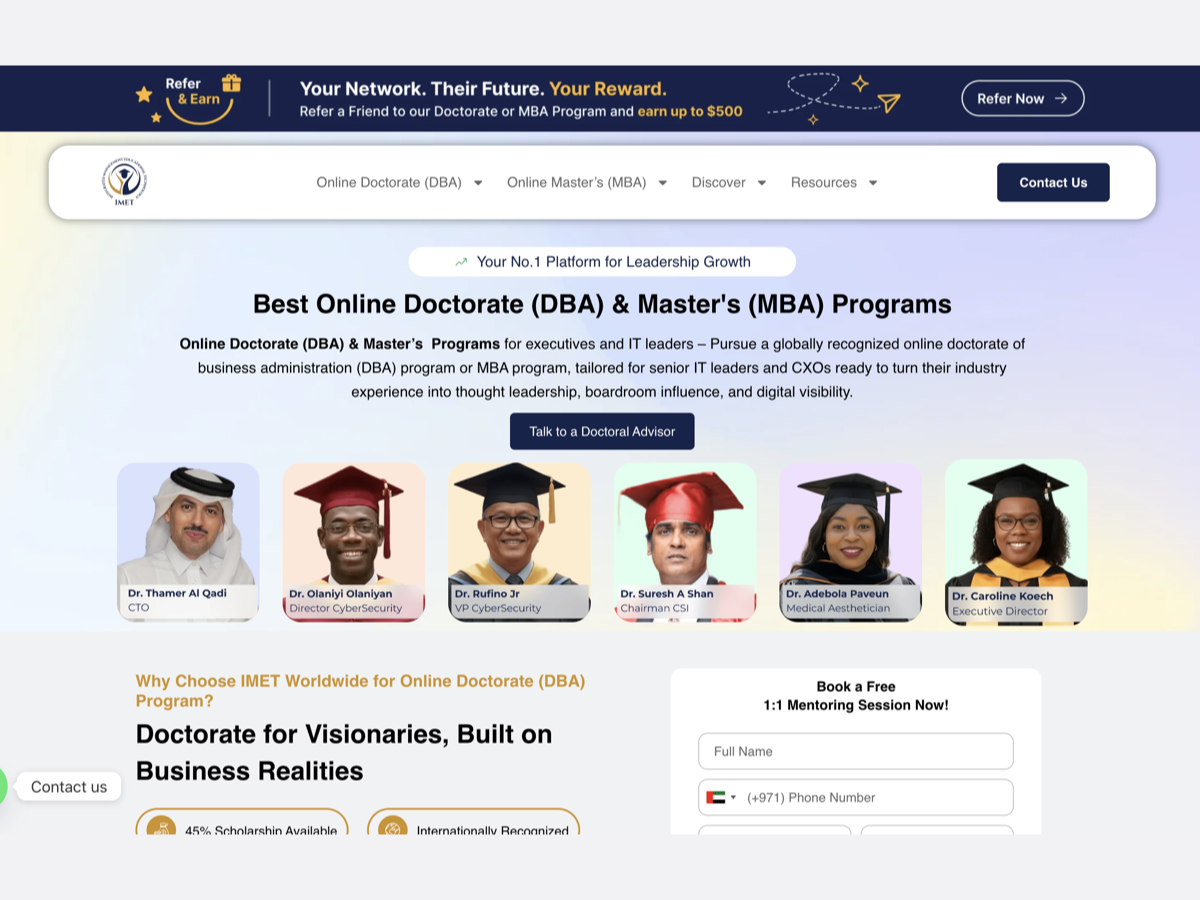
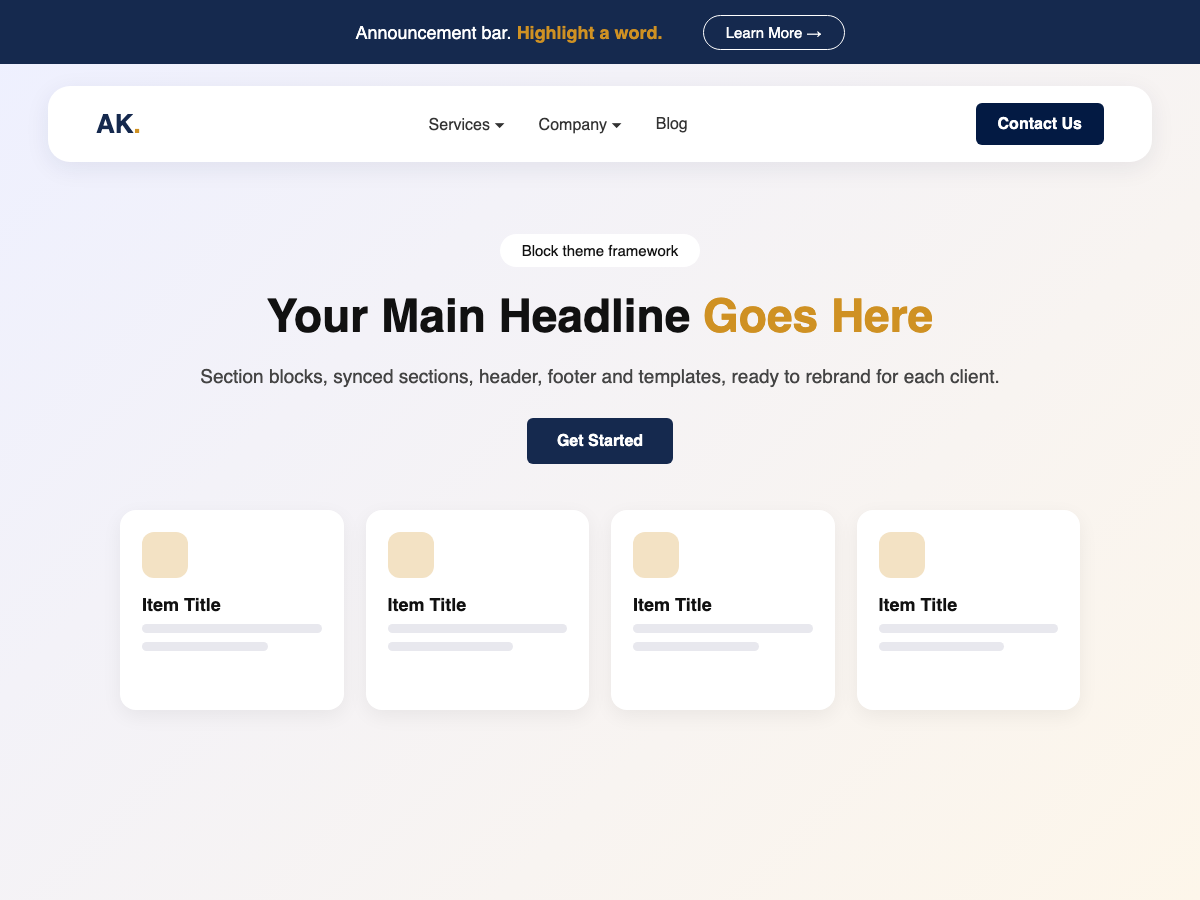
Fix PHPUnit failures, add packaging script, neutral screenshot
- Feature flags use the aktheme context (option aktheme_features).
- Restore the two blog article patterns SinglePost inserts, with placeholder copy.
- Remove the GitHub Pages docs workflow (no Pages site).
- npm run package builds dist/aktheme-<version>.zip with assets/build and runtime vendor.
- Replace the screenshot with a neutral one.

diff --git a/bin/rebrand.js b/bin/rebrand.js
@@ -72,6 +72,12 @@ const replacements = [
 	[/(?<![A-Za-z0-9])AKTHEME(?![A-Za-z0-9])/g, constant],
 	[/(?<![A-Za-z0-9])aktheme_/g, `${snake}_`],
 	[/<element value="aktheme"\/>/g, `<element value="${snake}"/>`],
+	// The feature-flag context names an option (<context>_features), so it takes the snake form.
+	[/__construct\( 'aktheme' \)/g, `__construct( '${snake}' )`],
+	[
+		/assertSame\( 'aktheme', \( new FeatureRegistry/g,
+		`assertSame( '${snake}', ( new FeatureRegistry`,
+	],
 	[/(?<![A-Za-z0-9_-])aktheme(?![A-Za-z0-9_])/g, slug],
 	[/(?<![A-Za-z0-9_\\-])AK(?![A-Za-z0-9_\\])/g, short],
 ];

diff --git a/patterns/blog-program-cta.php b/patterns/blog-program-cta.php
@@ -1,0 +1,34 @@
+<?php
+/**
+ * Title: Blog: Call-out card
+ * Slug: aktheme/blog-program-cta
+ * Description: A call-out inside an article: title, short text and a button on a light blue panel beside a photo.
+ * Categories: ak-sections
+ * Keywords: ak, blog, article, cta
+ * Viewport Width: 800
+ *
+ * @package AK\Theme
+ */
+
+if ( ! defined( 'ABSPATH' ) ) {
+	exit;
+}
+?>
+<!-- wp:group {"className":"bp-cta-card","layout":{"type":"default"}} -->
+<div class="wp-block-group bp-cta-card"><!-- wp:group {"className":"bp-cta-text","layout":{"type":"default"}} -->
+<div class="wp-block-group bp-cta-text"><!-- wp:paragraph {"className":"bp-cta-title"} -->
+<p class="bp-cta-title"><?php esc_html_e( 'Your service or offer', 'aktheme' ); ?></p>
+<!-- /wp:paragraph -->
+<!-- wp:paragraph -->
+<p><?php esc_html_e( 'One or two lines on what the reader gets and why it matters.', 'aktheme' ); ?></p>
+<!-- /wp:paragraph -->
+<!-- wp:buttons -->
+<div class="wp-block-buttons"><!-- wp:button {"className":"btn-navy btn-sm"} -->
+<div class="wp-block-button btn-navy btn-sm"><a class="wp-block-button__link wp-element-button" href="<?php echo esc_url( home_url( '/' ) ); ?>"><?php esc_html_e( 'Learn More', 'aktheme' ); ?></a></div>
+<!-- /wp:button --></div>
+<!-- /wp:buttons --></div>
+<!-- /wp:group -->
+<!-- wp:image {"sizeSlug":"full","linkDestination":"none","className":"bp-cta-img"} -->
+<figure class="wp-block-image size-full bp-cta-img"><img src="<?php echo esc_url( get_theme_file_uri( 'assets/images/theme/photo-placeholder.webp' ) ); ?>" alt="<?php echo esc_attr__( 'Placeholder image', 'aktheme' ); ?>" width="584" height="700"/></figure>
+<!-- /wp:image --></div>
+<!-- /wp:group -->

diff --git a/patterns/blog-skills-banner.php b/patterns/blog-skills-banner.php
@@ -1,0 +1,36 @@
+<?php
+/**
+ * Title: Blog: Contact banner
+ * Slug: aktheme/blog-skills-banner
+ * Description: A blue banner inside an article: a title, two short points and a Contact Us button (goes to the advisor form in the sidebar).
+ * Categories: ak-sections
+ * Keywords: ak, blog, article, cta, contact, banner
+ * Viewport Width: 800
+ *
+ * @package AK\Theme
+ */
+
+if ( ! defined( 'ABSPATH' ) ) {
+	exit;
+}
+?>
+<!-- wp:group {"className":"bp-banner","layout":{"type":"default"}} -->
+<div class="wp-block-group bp-banner"><!-- wp:paragraph {"className":"bp-banner-title"} -->
+<p class="bp-banner-title"><?php esc_html_e( 'Need help with this?', 'aktheme' ); ?></p>
+<!-- /wp:paragraph -->
+<!-- wp:group {"layout":{"type":"default"}} -->
+<div class="wp-block-group"><!-- wp:list -->
+<ul class="wp-block-list"><!-- wp:list-item -->
+<li><?php esc_html_e( 'First short benefit', 'aktheme' ); ?></li>
+<!-- /wp:list-item -->
+<!-- wp:list-item -->
+<li><?php esc_html_e( 'Second short benefit', 'aktheme' ); ?></li>
+<!-- /wp:list-item --></ul>
+<!-- /wp:list -->
+<!-- wp:buttons -->
+<div class="wp-block-buttons"><!-- wp:button {"className":"btn-white btn-sm"} -->
+<div class="wp-block-button btn-white btn-sm"><a class="wp-block-button__link wp-element-button" href="#advisor-form"><?php esc_html_e( 'Contact Us', 'aktheme' ); ?></a></div>
+<!-- /wp:button --></div>
+<!-- /wp:buttons --></div>
+<!-- /wp:group --></div>
+<!-- /wp:group -->

diff --git a/tests/php/inc/Core/FeaturesTest.php b/tests/php/inc/Core/FeaturesTest.php
@@ -87,7 +87,7 @@ class FeaturesTest extends TestCase {
 	 * The instance is namespaced with the theme's context slug.
 	 */
 	public function test_uses_aktheme_context(): void {
-		$this->assertSame( 'ak', ( new FeatureRegistry() )->get_context() );
+		$this->assertSame( 'aktheme', ( new FeatureRegistry() )->get_context() );
 	}
 
 	/**

diff --git a/inc/Core/FeatureRegistry.php b/inc/Core/FeatureRegistry.php
@@ -30,6 +30,6 @@ final class FeatureRegistry extends FeatureSelector implements Shareable {
 	 * Constructor.
 	 */
 	public function __construct() {
-		parent::__construct( 'ak' );
+		parent::__construct( 'aktheme' );
 	}
 }
